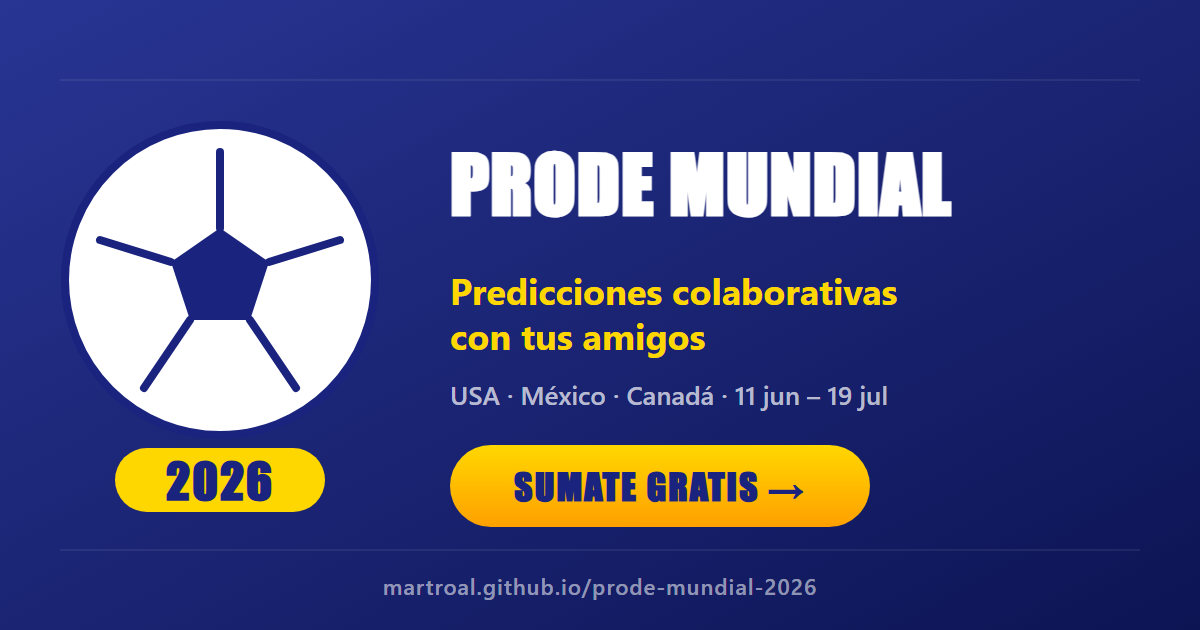
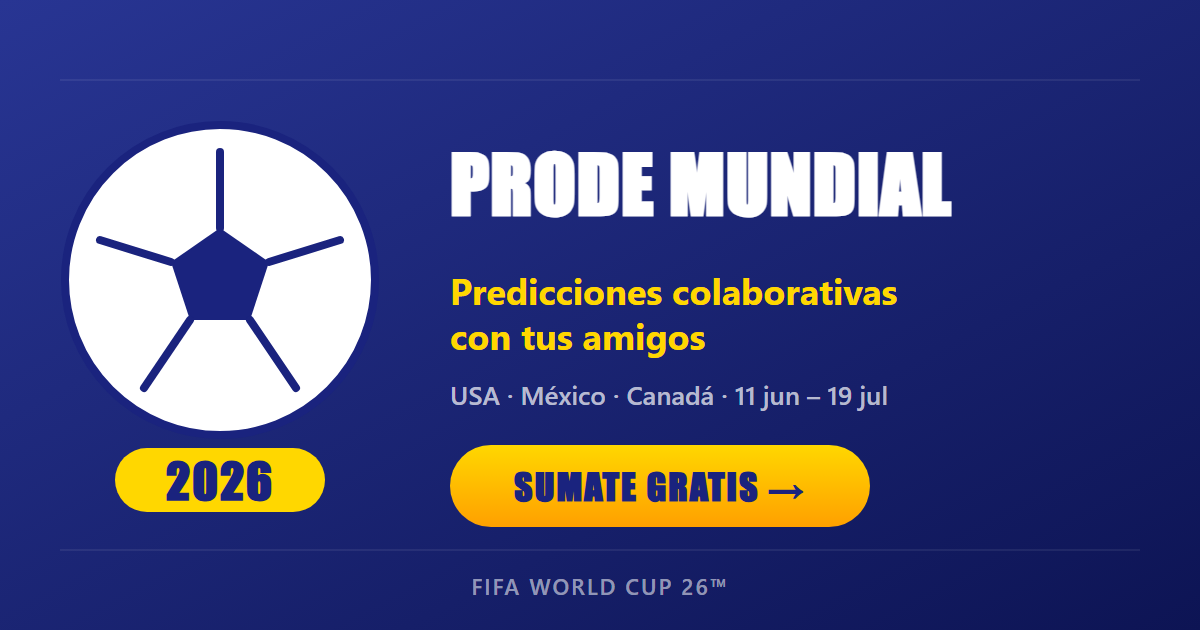
Quitar nombre/github del modal info, contacto via mail
Acerca: sin autor personal. Privacidad: contacto para borrar cuenta via [email redacted] en vez de DM al GitHub. JSON-LD author: Organization 'Prode Mundial 2026' con email. meta author: 'Prode Mundial 2026'. og-image footer: 'FIFA WORLD CUP 26' en vez de la URL con martroal. Las URLs canonical/og:url/og:image siguen siendo martroal.github.io (no se puede sacar sin migrar hosting a dominio custom).

Changed region(s): [[0.3083, 0.9048, 0.6783, 0.9651]]

diff --git a/index.html b/index.html
@@ -7,7 +7,7 @@
 
 <!-- SEO -->
 <meta name="description" content="Prode colaborativo de la Copa del Mundo 2026 — armá grupos con amigos, predecí cada partido y mirá tu bracket llenarse en tiempo real.">
-<meta name="author" content="martroal">
+<meta name="author" content="Prode Mundial 2026">
 <meta name="robots" content="index, follow">
 <meta name="application-name" content="Prode 26">
 <link rel="canonical" href="https://martroal.github.io/prode-mundial-2026/">
@@ -68,7 +68,7 @@
   "inLanguage": "es-AR",
   "isAccessibleForFree": true,
   "offers": { "@type": "Offer", "price": "0", "priceCurrency": "ARS" },
-  "author": { "@type": "Person", "name": "martroal" },
+  "author": { "@type": "Organization", "name": "Prode Mundial 2026", "email": "[email redacted]" },
   "about": {
     "@type": "SportsEvent",
     "name": "Copa Mundial de la FIFA 2026",
@@ -1774,16 +1774,16 @@ function openInfoModal(){
         <b>Dónde:</b> Firebase Firestore (Google Cloud).<br><br>
         <b>Quién puede ver tus picks:</b> únicamente los otros miembros del mismo grupo, desde la app.<br><br>
         <b>Modo vista previa:</b> sin login, tus picks se guardan en <code>localStorage</code> de tu navegador. Si borrás cache o datos del sitio, se pierden. Nunca salen de tu dispositivo.<br><br>
-        <b>Borrar mi cuenta y datos:</b> escribime al GitHub <a href="https://github.com/martroal" target="_blank" rel="noopener">martroal</a> y borro todo en menos de 48hs.
+        <b>Borrar mi cuenta y datos:</b> escribinos a <a href="mailto:[email redacted]">[email redacted]</a> y borramos todo en menos de 48hs.
       </div>
     </div>
 
     <div class="info-sec" style="margin-bottom:.5rem">
       <h3>👋 Acerca</h3>
       <div class="info-block">
-        Prode armado por <b>martroal</b> (Marcel) en mayo 2026 para jugar con amigos sin tener que bajarse apps con publicidad. Sin fines de lucro, sin tracking, sin garantías — úsalo bajo tu propio riesgo 🙂.<br><br>
-        🛠️ <b>Stack:</b> HTML + JS vanilla + Firebase + GitHub Pages.<br>
-        📦 <b>Código abierto:</b> <a href="https://github.com/martroal/prode-mundial-2026" target="_blank" rel="noopener">github.com/martroal/prode-mundial-2026</a>
+        Prode pensado para jugar con amigos sin publicidad ni costos. Sin fines de lucro, sin tracking, sin garantías — úsalo bajo tu propio riesgo 🙂.<br><br>
+        📧 <b>Contacto:</b> <a href="mailto:[email redacted]">[email redacted]</a><br>
+        🛠️ <b>Stack:</b> HTML + JS vanilla + Firebase.
       </div>
     </div>
   `;